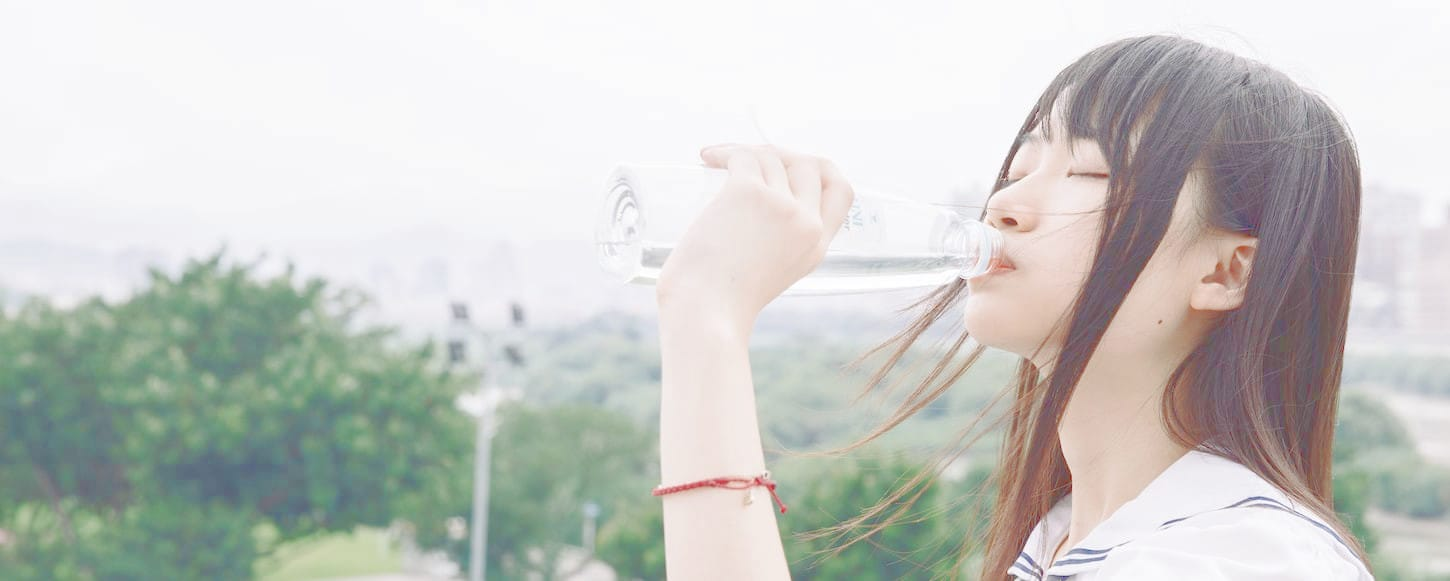
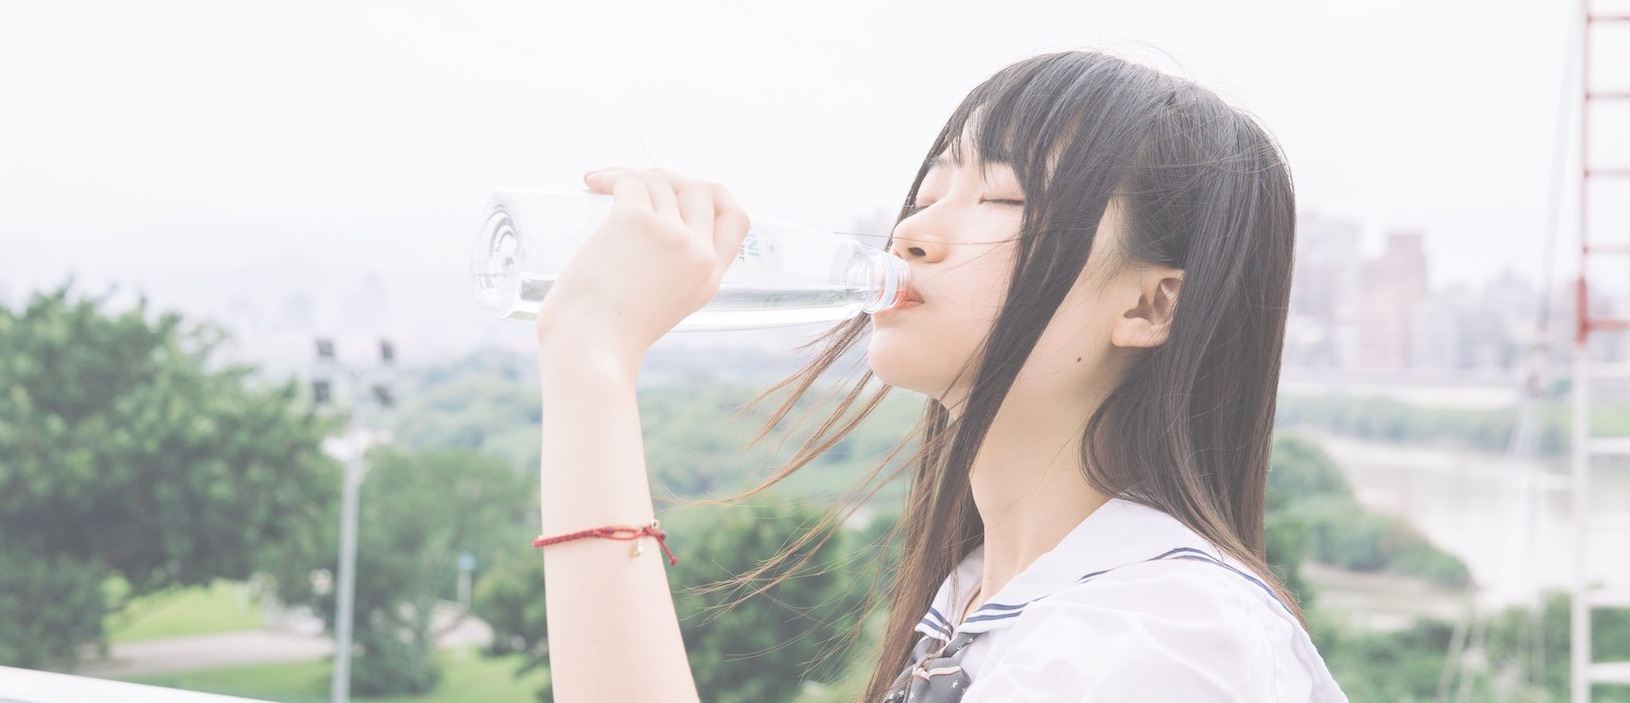
image

diff --git a/index.html b/index.html
@@ -1,1 +1,1 @@
-<!doctype html><html lang="en"><head><meta charset="utf-8"><meta http-equiv="Cache-Control" content="no-cache, no-store, must-revalidate"/><meta http-equiv="Pragma" content="no-cache"/><meta http-equiv="Expires" content="0"/><script async src="https://www.googletagmanager.com/gtag/js?id=UA-131767717-1"></script><script>function gtag(){dataLayer.push(arguments)}window.dataLayer=window.dataLayer||[],gtag("js",new Date),gtag("config","UA-131767717-1")</script><meta name="description" content="你專屬的區塊鏈少女卡片創作交易平台"><meta name="author" content="Roger Wu, Tina Lee, Jeff Hu, Swanky Hsiao, JC Ko"><meta name="keywords" content="Crypto,Beauty,CryptoBeauty,cryptocurrency,tron,trx,dapp,波場,波場幣,去中心化,區塊鏈,女孩"><meta property="og:title" content="Crypto Beauty 密碼女孩"><meta property="og:type" content="website"/><meta property="og:url" content=""><meta property="og:image" content="https://i.imgur.com/BJz1o05.png"><meta property="og:description" content="你專屬的區塊鏈少女卡片創作交易平台"><meta property="og:site_name" content="Crypto Beauty 密碼女孩"/><meta name="twitter:card" content="summary_large_image"><meta name="twitter:site" content=""><meta name="twitter:title" content="Crypto Beauty 密碼女孩"><meta name="twitter:description" content="你專屬的區塊鏈少女卡片創作交易平台"><meta name="twitter:creator" content=""><meta name="twitter:image:src" content="https://i.imgur.com/BJz1o05.png"><link rel="shortcut icon" href="./img/logo/favicon.png"><meta name="viewport" content="width=device-width,initial-scale=1,shrink-to-fit=no"><meta name="theme-color" content="#000000"><link rel="stylesheet" href="css/isotope.css" media="screen"/><link rel="stylesheet" href="js/fancybox/jquery.fancybox.css" media="screen"/><link rel="stylesheet" href="css/bootstrap.css"><link rel="stylesheet" href="css/bootstrap-theme.css"><link rel="stylesheet" href="css/style.css"><link rel="stylesheet" href="skin/default.css"><link rel="stylesheet" href="https://maxcdn.bootstrapcdn.com/font-awesome/4.5.0/css/font-awesome.min.css"><link rel="manifest" href="./manifest.json"><title>Crypto Beauty 密碼女孩</title><link href="./static/css/main.a534342c.chunk.css" rel="stylesheet"></head><body><noscript>You need to enable JavaScript to run this app.</noscript><div id="root"></div><script>!function(l){function e(e){for(var r,t,n=e[0],o=e[1],u=e[2],f=0,i=[];f<n.length;f++)t=n[f],p[t]&&i.push(p[t][0]),p[t]=0;for(r in o)Object.prototype.hasOwnProperty.call(o,r)&&(l[r]=o[r]);for(s&&s(e);i.length;)i.shift()();return c.push.apply(c,u||[]),a()}function a(){for(var e,r=0;r<c.length;r++){for(var t=c[r],n=!0,o=1;o<t.length;o++){var u=t[o];0!==p[u]&&(n=!1)}n&&(c.splice(r--,1),e=f(f.s=t[0]))}return e}var t={},p={2:0},c=[];function f(e){if(t[e])return t[e].exports;var r=t[e]={i:e,l:!1,exports:{}};return l[e].call(r.exports,r,r.exports,f),r.l=!0,r.exports}f.m=l,f.c=t,f.d=function(e,r,t){f.o(e,r)||Object.defineProperty(e,r,{enumerable:!0,get:t})},f.r=function(e){"undefined"!=typeof Symbol&&Symbol.toStringTag&&Object.defineProperty(e,Symbol.toStringTag,{value:"Module"}),Object.defineProperty(e,"__esModule",{value:!0})},f.t=function(r,e){if(1&e&&(r=f(r)),8&e)return r;if(4&e&&"object"==typeof r&&r&&r.__esModule)return r;var t=Object.create(null);if(f.r(t),Object.defineProperty(t,"default",{enumerable:!0,value:r}),2&e&&"string"!=typeof r)for(var n in r)f.d(t,n,function(e){return r[e]}.bind(null,n));return t},f.n=function(e){var r=e&&e.__esModule?function(){return e.default}:function(){return e};return f.d(r,"a",r),r},f.o=function(e,r){return Object.prototype.hasOwnProperty.call(e,r)},f.p="./";var r=window.webpackJsonp=window.webpackJsonp||[],n=r.push.bind(r);r.push=e,r=r.slice();for(var o=0;o<r.length;o++)e(r[o]);var s=n;a()}([])</script><script src="./static/js/1.77f8de00.chunk.js"></script><script src="./static/js/main.fb00b652.chunk.js"></script></body><script src="js/modernizr-2.6.2-respond-1.1.0.min.js"></script><script src="js/jquery.js"></script><script src="js/jquery.easing.1.3.js"></script><script src="js/bootstrap.min.js"></script><script src="js/jquery.isotope.min.js"></script><script src="js/jquery.nicescroll.min.js"></script><script src="js/fancybox/jquery.fancybox.pack.js"></script><script src="js/skrollr.min.js"></script><script src="js/jquery.scrollTo.js"></script><script src="js/jquery.localScroll.js"></script><script src="js/stellar.js"></script><script src="js/jquery.appear.js"></script><script src="js/main.js"></script></html>
+<!doctype html><html lang="en"><head><meta charset="utf-8"><meta http-equiv="Cache-Control" content="no-cache, no-store, must-revalidate"/><meta http-equiv="Pragma" content="no-cache"/><meta http-equiv="Expires" content="0"/><script async src="https://www.googletagmanager.com/gtag/js?id=UA-131767717-1"></script><script>function gtag(){dataLayer.push(arguments)}window.dataLayer=window.dataLayer||[],gtag("js",new Date),gtag("config","UA-131767717-1")</script><meta name="description" content="你專屬的區塊鏈少女卡片創作交易平台"><meta name="author" content="Roger Wu, Tina Lee, Jeff Hu, Swanky Hsiao, JC Ko"><meta name="keywords" content="Crypto,Beauty,CryptoBeauty,cryptocurrency,tron,trx,dapp,波場,波場幣,去中心化,區塊鏈,女孩"><meta property="og:title" content="Crypto Beauty 密碼女孩"><meta property="og:type" content="website"/><meta property="og:url" content=""><meta property="og:image" content="https://i.imgur.com/nkI88WA.jpg"><meta property="og:description" content="你專屬的區塊鏈少女卡片創作交易平台"><meta property="og:site_name" content="Crypto Beauty 密碼女孩"/><meta name="twitter:card" content="summary_large_image"><meta name="twitter:site" content=""><meta name="twitter:title" content="Crypto Beauty 密碼女孩"><meta name="twitter:description" content="你專屬的區塊鏈少女卡片創作交易平台"><meta name="twitter:creator" content=""><meta name="twitter:image:src" content="https://i.imgur.com/nkI88WA.jpg"><link rel="shortcut icon" href="./img/logo/favicon.png"><meta name="viewport" content="width=device-width,initial-scale=1,shrink-to-fit=no"><meta name="theme-color" content="#000000"><link rel="stylesheet" href="css/isotope.css" media="screen"/><link rel="stylesheet" href="js/fancybox/jquery.fancybox.css" media="screen"/><link rel="stylesheet" href="css/bootstrap.css"><link rel="stylesheet" href="css/bootstrap-theme.css"><link rel="stylesheet" href="css/style.css"><link rel="stylesheet" href="skin/default.css"><link rel="stylesheet" href="https://maxcdn.bootstrapcdn.com/font-awesome/4.5.0/css/font-awesome.min.css"><link rel="manifest" href="./manifest.json"><title>Crypto Beauty 密碼女孩</title><link href="./static/css/main.a534342c.chunk.css" rel="stylesheet"></head><body><noscript>You need to enable JavaScript to run this app.</noscript><div id="root"></div><script>!function(l){function e(e){for(var r,t,n=e[0],o=e[1],u=e[2],f=0,i=[];f<n.length;f++)t=n[f],p[t]&&i.push(p[t][0]),p[t]=0;for(r in o)Object.prototype.hasOwnProperty.call(o,r)&&(l[r]=o[r]);for(s&&s(e);i.length;)i.shift()();return c.push.apply(c,u||[]),a()}function a(){for(var e,r=0;r<c.length;r++){for(var t=c[r],n=!0,o=1;o<t.length;o++){var u=t[o];0!==p[u]&&(n=!1)}n&&(c.splice(r--,1),e=f(f.s=t[0]))}return e}var t={},p={2:0},c=[];function f(e){if(t[e])return t[e].exports;var r=t[e]={i:e,l:!1,exports:{}};return l[e].call(r.exports,r,r.exports,f),r.l=!0,r.exports}f.m=l,f.c=t,f.d=function(e,r,t){f.o(e,r)||Object.defineProperty(e,r,{enumerable:!0,get:t})},f.r=function(e){"undefined"!=typeof Symbol&&Symbol.toStringTag&&Object.defineProperty(e,Symbol.toStringTag,{value:"Module"}),Object.defineProperty(e,"__esModule",{value:!0})},f.t=function(r,e){if(1&e&&(r=f(r)),8&e)return r;if(4&e&&"object"==typeof r&&r&&r.__esModule)return r;var t=Object.create(null);if(f.r(t),Object.defineProperty(t,"default",{enumerable:!0,value:r}),2&e&&"string"!=typeof r)for(var n in r)f.d(t,n,function(e){return r[e]}.bind(null,n));return t},f.n=function(e){var r=e&&e.__esModule?function(){return e.default}:function(){return e};return f.d(r,"a",r),r},f.o=function(e,r){return Object.prototype.hasOwnProperty.call(e,r)},f.p="./";var r=window.webpackJsonp=window.webpackJsonp||[],n=r.push.bind(r);r.push=e,r=r.slice();for(var o=0;o<r.length;o++)e(r[o]);var s=n;a()}([])</script><script src="./static/js/1.77f8de00.chunk.js"></script><script src="./static/js/main.fb00b652.chunk.js"></script></body><script src="js/modernizr-2.6.2-respond-1.1.0.min.js"></script><script src="js/jquery.js"></script><script src="js/jquery.easing.1.3.js"></script><script src="js/bootstrap.min.js"></script><script src="js/jquery.isotope.min.js"></script><script src="js/jquery.nicescroll.min.js"></script><script src="js/fancybox/jquery.fancybox.pack.js"></script><script src="js/skrollr.min.js"></script><script src="js/jquery.scrollTo.js"></script><script src="js/jquery.localScroll.js"></script><script src="js/stellar.js"></script><script src="js/jquery.appear.js"></script><script src="js/main.js"></script></html>

diff --git a/service-worker.js b/service-worker.js
@@ -14,7 +14,7 @@
 importScripts("https://storage.googleapis.com/workbox-cdn/releases/3.6.3/workbox-sw.js");
 
 importScripts(
-  "./precache-manifest.cdbd9c936eb53bdd2395e777a382c957.js"
+  "./precache-manifest.3f4b4a5fca5ac381b2405cd09fdbb1f4.js"
 );
 
 workbox.clientsClaim();

diff --git a/precache-manifest.3f4b4a5fca5ac381b2405cd09fdbb1f4.js b/precache-manifest.3f4b4a5fca5ac381b2405cd09fdbb1f4.js
@@ -16,7 +16,7 @@ self.__precacheManifest = [
     "url": "./static/css/main.a534342c.chunk.css"
   },
   {
-    "revision": "efb260a1758de829713040f94d4e95bc",
+    "revision": "cedc6ec1c08a35c173790e55401111b5",
     "url": "./index.html"
   }
 ];
